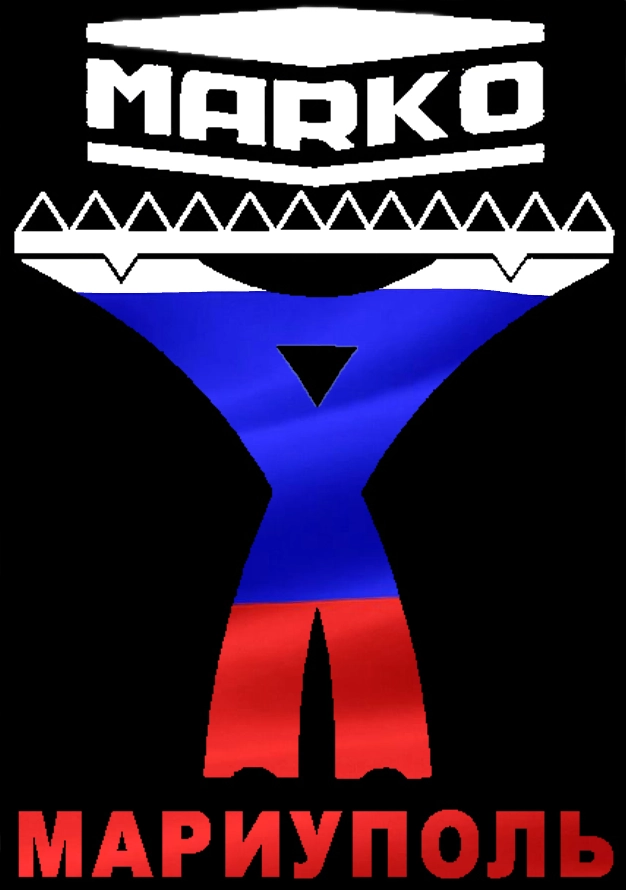
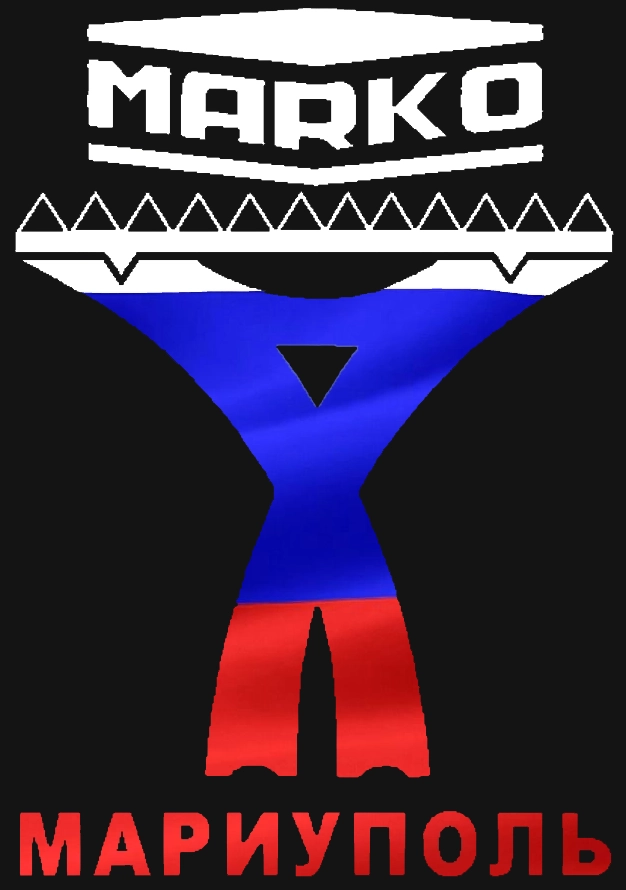
Поменял цвет фона, цвета заголовков и ссылок!

diff --git a/css/style.css b/css/style.css
@@ -59,6 +59,7 @@ body {
     font-size: 14px;
     font-weight: normal;
     line-height: 18px;
+    background-color: #141414;
 }
 
 
@@ -87,15 +88,6 @@ font-family: 'Open Sans', sans-serif; */
     width: 100px;
 }
 
-.header__top--title {
-    font-family: "Montserrat", sans-serif;
-    font-weight: 500;
-    font-size: 40px;
-    line-height: 56px;
-    text-align: center;
-    color: rgb(16, 183, 234);
-}
-
 .header__top-tel {
     margin: 15px;
     display: flex;
@@ -106,12 +98,16 @@ font-family: 'Open Sans', sans-serif; */
     font-size: 21px;
     line-height: 28px;
     text-align: center;
-    color: rgb(16, 183, 234);
+    color: rgb(234, 52, 16);
 }
 
-.phone {}
+.phone {
+    color: rgb(234, 52, 16);
+}
 
-.email {}
+.email {
+    color: rgb(234, 52, 16);
+}
 
 .menu {}
 
@@ -128,9 +124,12 @@ font-family: 'Open Sans', sans-serif; */
     font-size: 24px;
     font-weight: 400;
     line-height: 30px;
+    color: #fff
 }
 
-.menu__list-link {}
+.menu__list-link {
+    color: #fff
+}
 
 .header__content {
     background-image: url(../images/headerbg.webp);
@@ -149,7 +148,7 @@ font-family: 'Open Sans', sans-serif; */
     font-size: 50px;
     line-height: 70px;
     text-align: center;
-    color: rgb(234, 132, 16);
+    color: rgb(18, 158, 190);
     padding: 0 15px;
     margin-top: auto;
     margin-bottom: 130px;
@@ -161,7 +160,7 @@ font-family: 'Open Sans', sans-serif; */
     font-size: 32px;
     line-height: 44px;
     text-align: center;
-    color: rgb(234, 89, 16);
+    color: rgb(16, 132, 234);
     margin-bottom: 200px;
 }
 
